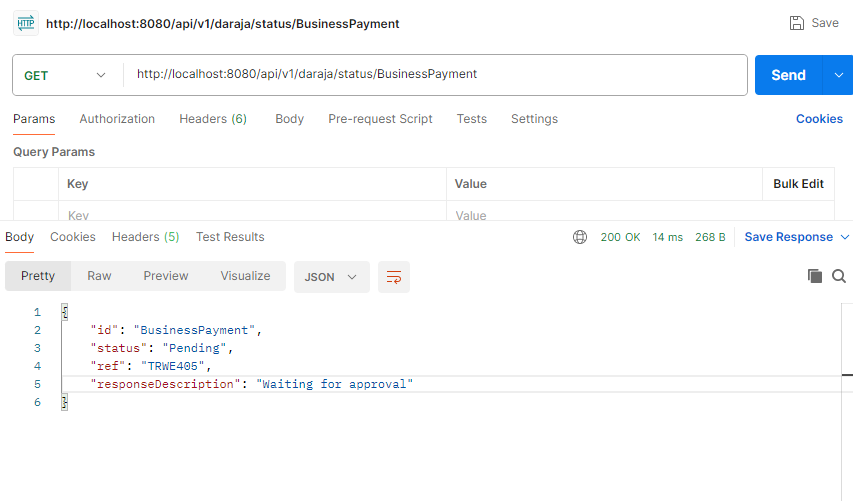
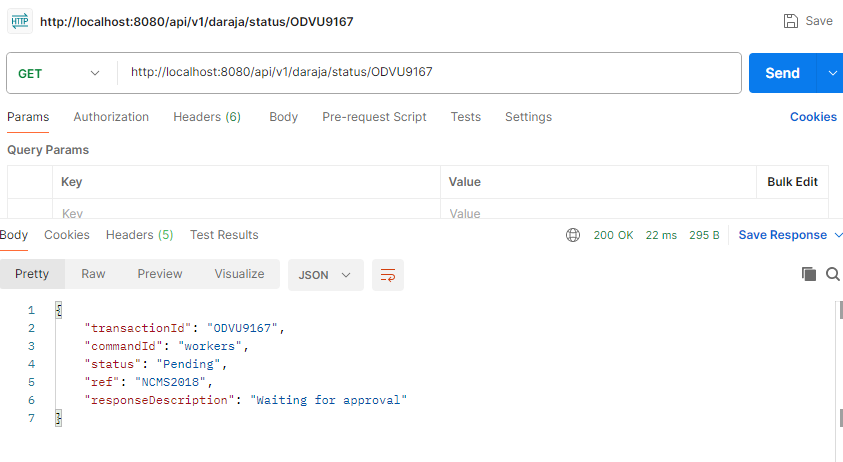
add transactionID

diff --git a/src/main/java/com/B2Cdaraja/service/DarajaService.java b/src/main/java/com/B2Cdaraja/service/DarajaService.java
@@ -5,13 +5,11 @@ import org.springframework.beans.factory.annotation.Autowired;
 import org.springframework.beans.factory.annotation.Value;
 import org.springframework.kafka.core.KafkaTemplate;
 import org.springframework.stereotype.Service;
-
 import com.B2Cdaraja.model.GwRequest;
 import com.B2Cdaraja.model.Result;
 import com.B2Cdaraja.repository.PaymentRepository;
 import com.fasterxml.jackson.databind.ObjectMapper;
 import org.json.JSONObject;
-
 import java.io.IOException;
 import java.security.SecureRandom;
 import java.util.Base64;
@@ -67,16 +65,16 @@ public class DarajaService {
         }
     }
 
-    private String generateUniqueRef() {
+    private String generateUniqueTransactionId() {
         SecureRandom random = new SecureRandom();
-        StringBuilder ref = new StringBuilder();
+        StringBuilder transactionId = new StringBuilder();
         for (int i = 0; i < 4; i++) {
-            ref.append((char) ('A' + random.nextInt(26)));
+            transactionId.append((char) ('A' + random.nextInt(26)));
         }
-        for (int i = 0; i < 3; i++) {
-            ref.append(random.nextInt(10));
+        for (int i = 0; i < 4; i++) {
+            transactionId.append(random.nextInt(10));
         }
-        return ref.toString();
+        return transactionId.toString();
     }
 
     private boolean isValidKenyanSafaricomNumber(String mobileNumber) {
@@ -86,10 +84,24 @@ public class DarajaService {
     private boolean isValidAmount(double amount) {
         return amount >= MIN_AMOUNT && amount <= MAX_AMOUNT;
     }
+    
+    private String generateUniqueRef() {
+        SecureRandom random = new SecureRandom();
+        StringBuilder ref = new StringBuilder();
+        for (int i = 0; i < 4; i++) {
+            ref.append((char) ('A' + random.nextInt(26)));
+        }
+        for (int i = 0; i < 4; i++) {
+            ref.append(random.nextInt(10));
+        }
+        return ref.toString();
+    }
+
 
     public Result processB2CRequest(GwRequest gwRequest) {
         Result result = new Result();
-        result.setId(gwRequest.getId());
+        result.setTransactionId(gwRequest.getTransactionId());
+        result.setCommandId(gwRequest.getCommandId());
         result.setStatus("Pending");
         result.setResponseDescription("Service request successful");
 
@@ -107,7 +119,7 @@ public class DarajaService {
 
         String uniqueRef = generateUniqueRef();
         result.setRef(uniqueRef);
-        gwRequest.setRef(uniqueRef);
+        gwRequest.setRef(uniqueRef); // Set ref in GwRequest object
 
         try {
             String accessToken = getOAuthToken();
@@ -118,7 +130,7 @@ public class DarajaService {
             JSONObject jsonBody = new JSONObject();
             jsonBody.put("Initiator", "testapi");
[1 lines of base64/hex data omitted]
-            jsonBody.put("CommandID", "SalaryPayment");
+            jsonBody.put("CommandID", gwRequest.getCommandId());
             jsonBody.put("Amount", gwRequest.getAmount());
             jsonBody.put("PartyA", "600990");
             jsonBody.put("PartyB", gwRequest.getMobileNumber());
@@ -154,7 +166,7 @@ public class DarajaService {
 
                 // Save to MongoDB
                 gwRequest.setStatus(result.getStatus()); // Ensure GwRequest's status is updated
-                paymentRepository.save(gwRequest);
+                paymentRepository.save(gwRequest); // Save GwRequest with ref to MongoDB
 
                 // Send to Kafka
                 kafkaTemplate.send("b2c-requests", gwRequest);
@@ -175,15 +187,18 @@ public class DarajaService {
         return result;
     }
 
+    //FETCHING THE PAYMENT STATUS
     public Result fetchPaymentStatus(String transactionId) {
-        Optional<GwRequest> optionalGwRequest = paymentRepository.findById(transactionId);
+        Optional<GwRequest> optionalGwRequest = paymentRepository.findByTransactionId(transactionId);
         Result result = new Result();
-        result.setId(transactionId);
+        result.setTransactionId(transactionId);
 
         if (optionalGwRequest.isPresent()) {
             GwRequest gwRequest = optionalGwRequest.get();
+            result.setCommandId(gwRequest.getCommandId());
             result.setRef(gwRequest.getRef());
             result.setStatus(gwRequest.getStatus());
+
             // Set appropriate response description based on status
             if ("Pending".equals(gwRequest.getStatus())) {
                 result.setResponseDescription("Waiting for approval");
@@ -202,29 +217,74 @@ public class DarajaService {
 
         return result;
     }
+
+    //UPDATE STATUS
+//    public Result updatePaymentStatus(Result result) {
+//        // Fetch GwRequest by transactionId
+//        Optional<GwRequest> optionalGwRequest = paymentRepository.findByTransactionId(result.getTransactionId());
+//        if (optionalGwRequest.isPresent()) {
+//            GwRequest gwRequest = optionalGwRequest.get();
+//
+//            // Update status and ref
+//            gwRequest.setStatus(result.getStatus());
+//            gwRequest.setRef(result.getRef());
+//
+//            // Save the updated GwRequest back to the repository
+//            paymentRepository.save(gwRequest);
+//
+//            // Prepare the Result with updated information
+//            result.setCommandId(gwRequest.getCommandId());
+//            result.setRef(gwRequest.getRef());
+//
+//            // Set responseDescription based on the status
+//            if ("Completed".equals(result.getStatus())) {
+//                result.setResponseDescription("Payment successful");
+//            } else {
+//                result.setResponseDescription("Status updated to " + result.getStatus());
+//            }
+//        } else {
+//            // Handle case where GwRequest is not found
+//            result.setStatus("Not Found");
+//            result.setRef("N/A");
+//            result.setResponseDescription("Request not found");
+//        }
+//        return result;
+//    }
     public Result updatePaymentStatus(Result result) {
-        Optional<GwRequest> optionalGwRequest = paymentRepository.findById(result.getId());
+        Optional<GwRequest> optionalGwRequest = paymentRepository.findByTransactionId(result.getTransactionId());
         if (optionalGwRequest.isPresent()) {
             GwRequest gwRequest = optionalGwRequest.get();
+
+            // Debugging before update
+            System.out.println("Before Update - TransactionId: " + gwRequest.getTransactionId() + ", Ref: " + gwRequest.getRef());
+
+            // Update status and ref
             gwRequest.setStatus(result.getStatus());
             gwRequest.setRef(result.getRef());
 
-            // Update responseDescription based on the status
+            // Save the updated GwRequest back to the repository
+            paymentRepository.save(gwRequest);
+
+            // Debugging after update
+            System.out.println("After Update - TransactionId: " + gwRequest.getTransactionId() + ", Ref: " + gwRequest.getRef());
+
+            // Prepare the Result with updated information
+            result.setCommandId(gwRequest.getCommandId());
+            result.setRef(gwRequest.getRef());
+
+            // Set responseDescription based on the status
             if ("Completed".equals(result.getStatus())) {
                 result.setResponseDescription("Payment successful");
             } else {
-                // Set a default or error message if needed
                 result.setResponseDescription("Status updated to " + result.getStatus());
             }
-
-            paymentRepository.save(gwRequest);
         } else {
             // Handle case where GwRequest is not found
             result.setStatus("Not Found");
+            result.setRef("N/A");
             result.setResponseDescription("Request not found");
         }
         return result;
-
     }
 
 }

diff --git a/src/main/java/com/B2Cdaraja/controller/DarajaController.java b/src/main/java/com/B2Cdaraja/controller/DarajaController.java
@@ -1,5 +1,7 @@
 package com.B2Cdaraja.controller;
 
+import java.security.SecureRandom;
+
 import org.springframework.beans.factory.annotation.Autowired;
 import org.springframework.web.bind.annotation.*;
 
@@ -7,17 +9,16 @@ import com.B2Cdaraja.model.GwRequest;
 import com.B2Cdaraja.model.Result;
 import com.B2Cdaraja.service.DarajaService;
 
-
 @RestController
 @RequestMapping("/api/v1/daraja")
 public class DarajaController {
 
-	//DI
     @Autowired
     private DarajaService darajaService;
 
     @PostMapping("/b2c")
     public Result sendB2CRequest(@RequestBody GwRequest gwRequest) {
+        gwRequest.setTransactionId(generateUniqueTransactionId()); // Set the transactionId before processing
         return darajaService.processB2CRequest(gwRequest);
     }
 
@@ -29,5 +30,17 @@ public class DarajaController {
     @PostMapping("/update-status")
     public Result updatePaymentStatus(@RequestBody Result result) {
         return darajaService.updatePaymentStatus(result);
+    }
+
+    private String generateUniqueTransactionId() {
+        SecureRandom random = new SecureRandom();
+        StringBuilder transactionId = new StringBuilder();
+        for (int i = 0; i < 4; i++) {
+            transactionId.append((char) ('A' + random.nextInt(26)));
+        }
+        for (int i = 0; i < 4; i++) {
+            transactionId.append(random.nextInt(10));
+        }
+        return transactionId.toString();
     }
 }

diff --git a/src/main/java/com/B2Cdaraja/model/Result.java b/src/main/java/com/B2Cdaraja/model/Result.java
@@ -2,18 +2,27 @@ package com.B2Cdaraja.model;
 
 public class Result {
 
-    private String id;
+    private String transactionId;
+    private String commandId;
     private String status;
     private String ref;
-    private String responseDescription; 
+    private String responseDescription;
 
     // Getters and setters
-    public String getId() {
-        return id;
+    public String getTransactionId() {
+        return transactionId;
     }
 
-    public void setId(String id) {
-        this.id = id;
+    public void setTransactionId(String transactionId) {
+        this.transactionId = transactionId;
+    }
+
+    public String getCommandId() {
+        return commandId;
+    }
+
+    public void setCommandId(String commandId) {
+        this.commandId = commandId;
     }
 
     public String getStatus() {
@@ -32,11 +41,11 @@ public class Result {
         this.ref = ref;
     }
 
-    public String getResponseDescription() { // New getter
+    public String getResponseDescription() {
         return responseDescription;
     }
 
-    public void setResponseDescription(String responseDescription) { // New setter
+    public void setResponseDescription(String responseDescription) {
         this.responseDescription = responseDescription;
     }
 }

diff --git a/src/main/java/com/B2Cdaraja/model/GwRequest.java b/src/main/java/com/B2Cdaraja/model/GwRequest.java
@@ -1,17 +1,22 @@
 package com.B2Cdaraja.model;
 
+import org.intellij.lang.annotations.Pattern;
 import org.springframework.data.annotation.Id;
 import org.springframework.data.mongodb.core.mapping.Document;
+
+import jakarta.annotation.Nonnull;
 
 @Document(collection = "daraja_db")
 public class GwRequest {
 
     @Id
-    private String id;
+    private String id; // For MongoDB internal use
+    private String transactionId; // Unique identifier for the transaction
+    private String commandId; // Command ID
     private double amount;
     private String mobileNumber;
-    private String status; 
-    private String ref;    
+    private String status;
+    private String ref;
 
     // Getters and setters
     public String getId() {
@@ -20,6 +25,22 @@ public class GwRequest {
 
     public void setId(String id) {
         this.id = id;
+    }
+
+    public String getTransactionId() {
+        return transactionId;
+    }
+
+    public void setTransactionId(String transactionId) {
+        this.transactionId = transactionId;
+    }
+
+    public String getCommandId() {
+        return commandId;
+    }
+
+    public void setCommandId(String commandId) {
+        this.commandId = commandId;
     }
 
     public double getAmount() {

diff --git a/src/main/java/com/B2Cdaraja/listener/KafkaConsumer.java b/src/main/java/com/B2Cdaraja/listener/KafkaConsumer.java
@@ -16,9 +16,11 @@ public class KafkaConsumer {
     @KafkaListener(topics = "b2c-responses", groupId = "group_id")
     public void consume(Result result) {
         // Update MongoDB with the response status
-        paymentRepository.findById(result.getId()).ifPresent(gwRequest -> {
-            // Assuming a separate result repository exists to store the Result status and reference
-            // Update the Result collection with status and reference
+        paymentRepository.findByTransactionId(result.getTransactionId()).ifPresent(gwRequest -> {
+            gwRequest.setStatus(result.getStatus());
+            gwRequest.setRef(result.getRef());
+            // Save the updated GwRequest to MongoDB
+            paymentRepository.save(gwRequest);
         });
     }
 }

diff --git a/src/main/java/com/B2Cdaraja/repository/PaymentRepository.java b/src/main/java/com/B2Cdaraja/repository/PaymentRepository.java
@@ -1,8 +1,10 @@
 package com.B2Cdaraja.repository;
 
-import org.springframework.data.mongodb.repository.MongoRepository;
 import com.B2Cdaraja.model.GwRequest;
+import org.springframework.data.mongodb.repository.MongoRepository;
 
-//@Repository
+import java.util.Optional;
+
 public interface PaymentRepository extends MongoRepository<GwRequest, String> {
+    Optional<GwRequest> findByTransactionId(String transactionId);
 }

diff --git a/Readme.MD b/Readme.MD
@@ -2,7 +2,7 @@
 
 # payment status update
 
-![Success request](images/success-req.PNG)
+![Success request](images/b2crequest.PNG)
 ![Invalid request](images/invalid.PNG)
 ![Approval](images/approval.PNG)
-![Payment Status Update](images/succesfull.PNG)
+![Payment Status Update](images/update-status.PNG)
